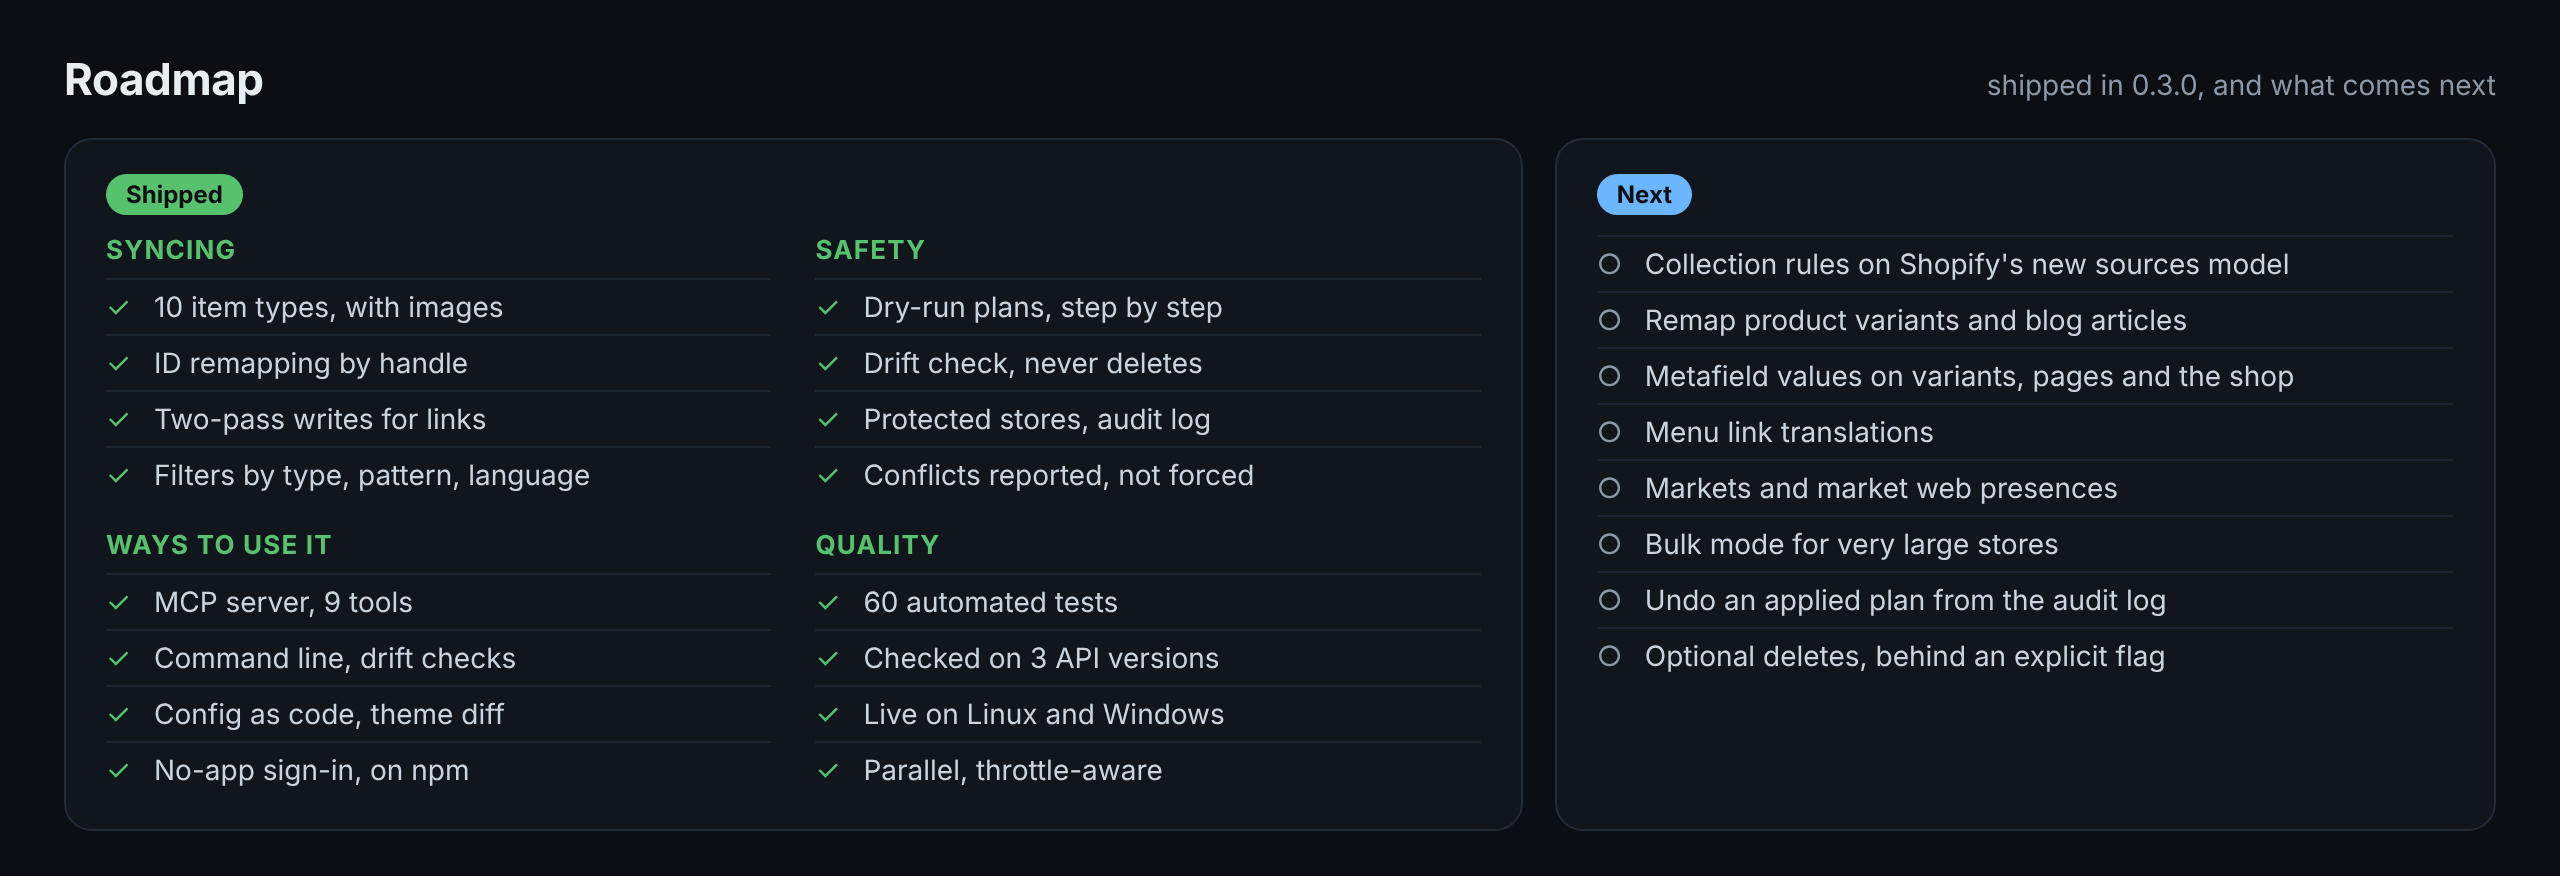
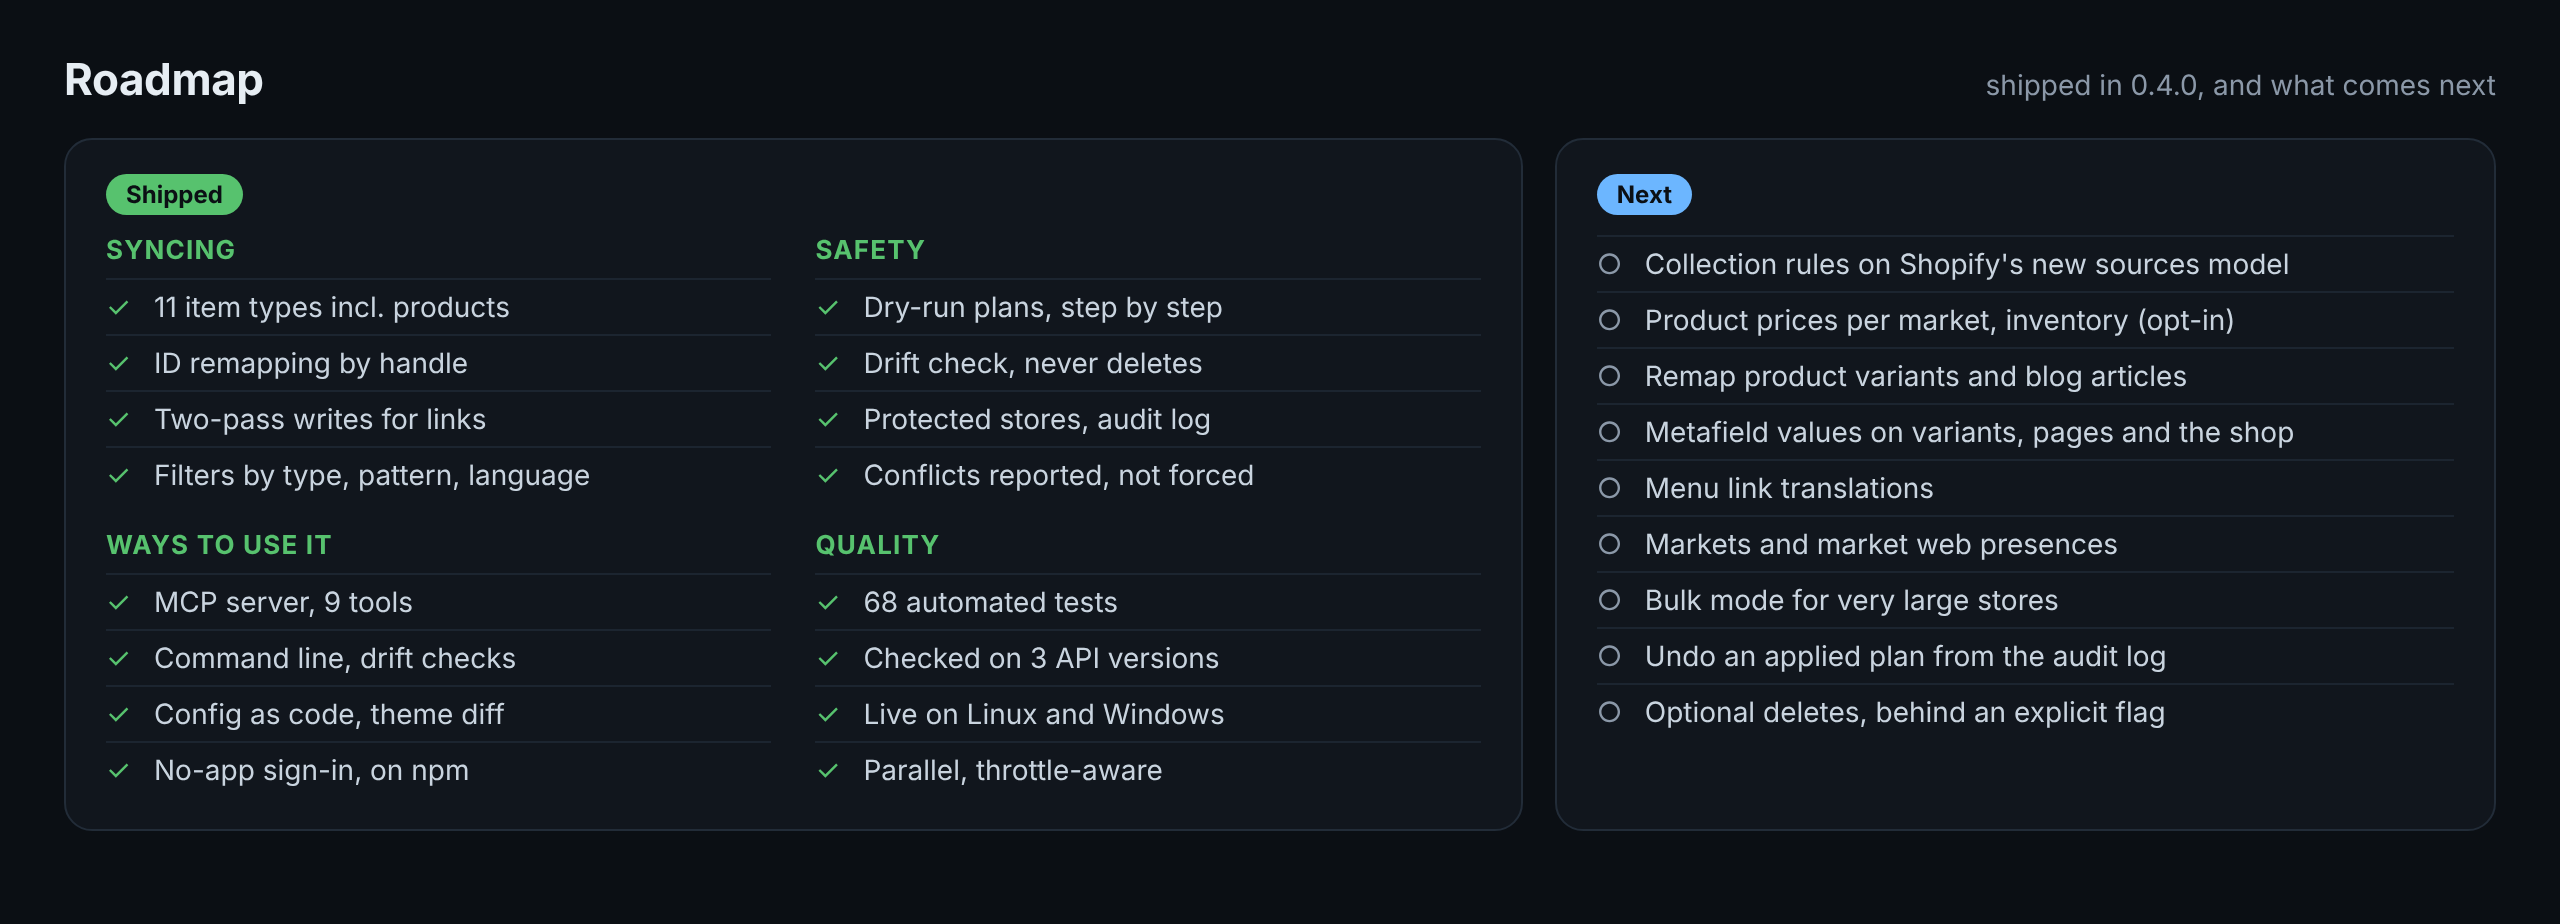
0.4.0: products sync; README, images, roadmap and changelog updated

diff --git a/src/server.ts b/src/server.ts
@@ -10,7 +10,7 @@ import { DEFAULT_OWNER_TYPES } from "./resources/metafieldDefinitions.js";
 import type { AdminClient } from "./shopify/client.js";
 import { DEFAULT_THEME_FILES, type ThemeDiff } from "./themes.js";
 
-export const VERSION = "0.3.0";
+export const VERSION = "0.4.0";
 
 export interface ServerDeps {
   registry: StoreRegistry;

diff --git a/README.md b/README.md
@@ -38,7 +38,7 @@
 The store setup that usually gets rebuilt by hand, plus the images it uses. References between items (a size guide pointing at a product, a menu linking to a page) are carried across by handle, so they land on the right item instead of a broken ID.
 
 <p align="center">
-  <img src="docs/images/what-it-syncs.png" alt="Metafield definitions, metaobject definitions and entries, collections, pages, menus, redirects, store policies, and opt-in metafield values and translations" width="100%">
+  <img src="docs/images/what-it-syncs.png" alt="Metafield definitions, metaobject definitions and entries, collections, pages, menus, redirects, store policies, files and images, and opt-in products, metafield values and translations" width="100%">
 </p>
 
 <details>
@@ -54,8 +54,11 @@ The store setup that usually gets rebuilt by hand, plus the images it uses. Refe
 | `redirects` | `path` | Thousands are fine. |
 | `collections` | `handle` | Title, description, sort order, template, SEO and smart-collection rules (rules on a metafield definition are remapped). Manual collections keep their own product list; sales-channel publishing is not copied. Manual versus smart is reported as a conflict. |
 | `shop_policies` | `type` | Refund, privacy, terms, shipping and contact policy text. |
+| `products` *(opt-in)* | `handle` | Title, description, vendor, type, tags, template, SEO, options, variants (matched by option values, with SKU) and images. **New products are created as drafts.** Prices only with `prices: true` (`--with-prices`); inventory and sales-channel publishing are never copied. On update, variants, images and option values that only the target has are kept, and don't count as differences. Gift cards are skipped. |
 | `metafields` *(opt-in)* | `OWNER/handle/namespace.key` | Metafield **values** on products and collections, landed on the item with the same handle. Reference values are remapped. Filter with `namespaces`. |
-| `translations` *(opt-in)* | `locale:Type/handle` | Translations of pages, collections, metaobjects, menus and policies. Registered against the target's own text, after the content itself is synced. The plan warns when a language isn't added to the target. |\n\n`metafields` and `translations` can be large, so they're read only when you ask for them (`resources: ["metafields"]`). App-owned (`app--…`) and Shopify-reserved (`shopify--…`) data is skipped and listed in the report.
+| `translations` *(opt-in)* | `locale:Type/handle` | Translations of pages, collections, metaobjects, menus and policies. Registered against the target's own text, after the content itself is synced. The plan warns when a language isn't added to the target. |
+
+`products`, `metafields` and `translations` can be large, so they're read only when you ask for them (`resources: ["products"]`). When an include filter names exact product handles (or handle prefixes like `linen-*`), only those products are read. App-owned (`app--…`) and Shopify-reserved (`shopify--…`) data is skipped and listed in the report.
 
 **Files and images** referenced by any of the above are matched by file name in the target. When one is missing, the plan says so and `apply_plan` uploads it from the source store.
 
@@ -168,6 +171,7 @@ Client credentials only work on stores in the app's own organization; elsewhere 
 | menus | `read_online_store_navigation` | `write_online_store_navigation` |
 | redirects | `read_online_store_navigation` | `write_online_store_navigation` |
 | collections | `read_products` | `write_products` |
+| products | `read_products` | `write_products` (plus `read_files`/`write_files` for their images) |
 | shop policies | `read_legal_policies` | `write_legal_policies` |
 | metafield values | `read_products` | `write_products` |
 | translations | `read_translations`, `read_locales` | `write_translations` |
@@ -292,6 +296,7 @@ claude mcp add shopify-store-sync \
 - *"Which product metafield definitions in namespace custom are missing from eu?"* (uses `include: ["PRODUCT.custom.*"]`)
 - *"Plan a sync of the faq and size_guide metaobjects from dev to eu."*
 - *"Apply only ops 1 to 4 of that plan."*
+- *"Copy the linen-shirt product to eu, with its prices."* (uses `resources: ["products"], include: ["linen-shirt"], prices: true`)
 - *"Copy the French translations from dev to eu."* (uses `resources: ["translations"], locales: ["fr"]`)
 - *"Export eu's configuration to ./store-config so I can commit it."*
 - *"Has eu drifted from ./store-config?"*
@@ -424,7 +429,7 @@ Two references followed from the source store to the target, as the sample sync 
 ## Tested on real stores
 
 <p align="center">
-  <img src="docs/images/tested.png" alt="60 automated tests, 47 GraphQL operations validated, 10 resource types written live, 2 sign-in methods used live" width="100%">
+  <img src="docs/images/tested.png" alt="68 automated tests, 52 GraphQL operations validated, 11 item types written live, 2 sign-in methods used live" width="100%">
 </p>
 
 <details>
@@ -441,6 +446,8 @@ Two references followed from the source store to the target, as the sample sync 
 | Values on products missing from the target | skipped up front with the reason |
 | Export to a folder, then diff that folder against the store | no differences |
 | Theme settings diff | read-only, 15 files compared in about 1 second |
+| Products (Shopify CLI sign-in, Windows) | a real product copied as a draft with its 4 images and alt text; after editing the copy and adding a variant and an image there, the update restored the title and kept both; the next diff was identical |
+| Products: reading only named handles | planning one product went from 97 to 6 seconds |
 | Safety: write to a read-only store | refused |
 | Safety: target edited after the plan was made | step skipped, nothing overwritten |
 | Shopify CLI sign-in on Windows (CLI 4.9.4), both stores | `connect` read-only and `--writes`; plan, apply (7 creates incl. file upload and translation), update and re-diff all exact; also through the MCP server over stdio |
@@ -462,6 +469,7 @@ Behaviours of the live API found this way are covered by tests: `nodes` returns 
 
 *Syncing*
 - [x] Metafield definitions, metaobject definitions and metaobject entries
+- [x] Products: content, options, variants by option values and SKU, images; new ones as drafts, prices only when asked, target-only variants and images kept
 - [x] Collections with smart-collection rules, pages, menus (3 levels, customer account menus too), redirects, store policies
 - [x] Metafield values on products and collections, translations per language (opt-in)
 - [x] Images and files matched by file name, uploaded to the target when missing
@@ -484,13 +492,14 @@ Behaviours of the live API found this way are covered by tests: `nodes` returns 
 - [x] Published on npm, runs with `npx`
 
 *Quality*
-- [x] 60 automated tests against an in-memory Shopify, plus MCP protocol tests
+- [x] 68 automated tests against an in-memory Shopify, plus MCP protocol tests
 - [x] Every GraphQL operation validated against Shopify's schema for 2026-04, 2026-10 and 2027-01
 - [x] Tested live between two stores on Linux and Windows, Shopify CLI 4.9 and 5
 - [x] Parallel reads with throttle-aware retries; clear errors for missing installs, expired sign-ins and auto-managed policies
 
 **Next**
 - [ ] Move collection rules to Shopify's new `sources` model (`ruleSet` is deprecated but supported through 2027-01)
+- [ ] Product prices per market and inventory levels, as explicit opt-ins
 - [ ] Remap product variants and blog articles, so references to them sync too
 - [ ] Metafield values on variants, pages, blogs and the shop
 - [ ] Menu item (link) translations

diff --git a/CHANGELOG.md b/CHANGELOG.md
@@ -1,5 +1,15 @@
 # Changelog
 
+## 0.4.0
+
+- New opt-in resource: `products`, keyed by handle. Copies title, description, vendor, type, tags, template, SEO, options, variants (matched by option values, with SKU) and images
+- New products are created as drafts; prices are copied only with `prices: true` (`--with-prices`); inventory and sales channels are never copied
+- Updates never delete: variants, images and option values that only the target has are kept, and the diff doesn't report them
+- Products named by an include filter (exact handles or `prefix-*`) are read directly instead of scanning the catalog
+- Plans remember their read options, so the drift check reads the target the same way
+- `--values` prints lists and objects as JSON instead of `[object Object]`
+- Tested live on Windows through the Shopify CLI sign-in
+
 ## 0.3.0
 
 - Connect a store without creating an app: `connect <store>` signs in through Shopify CLI (`shopify store auth`) in the browser, and `"auth": "shopify-cli"` in `stores.json` sends requests through `shopify store execute`
